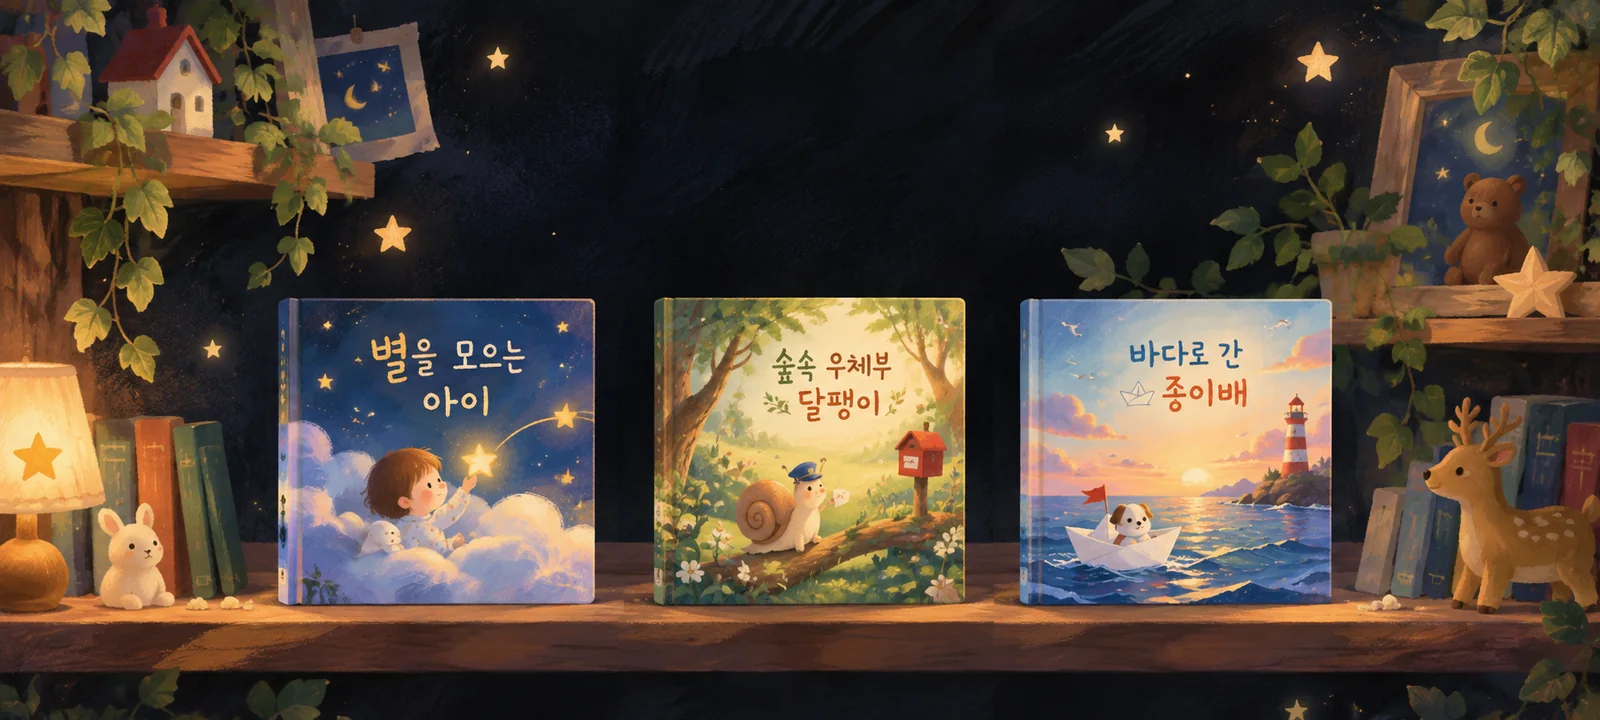
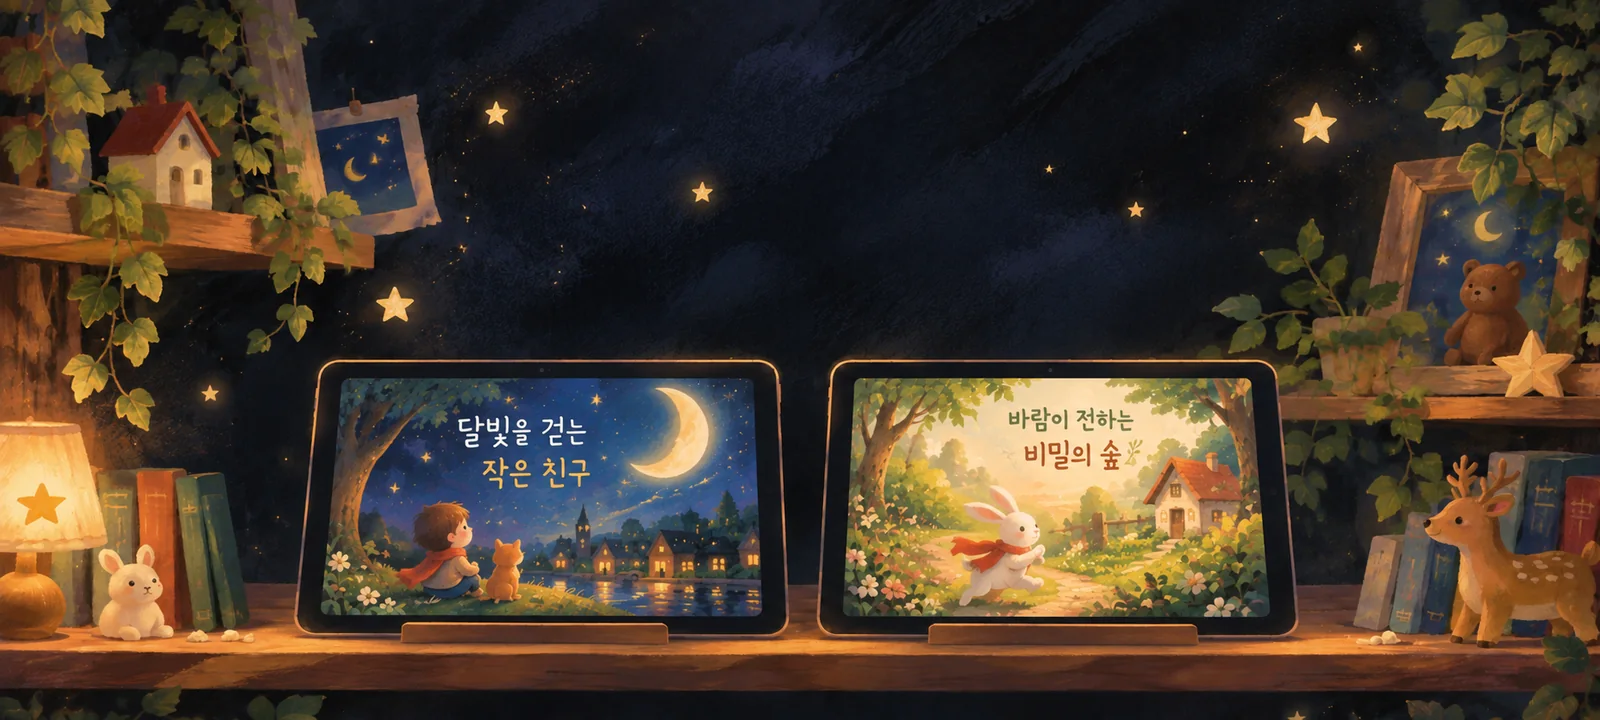
feat: 하단 CTA 배경 교체 + 첫 화면 버튼이 마지막 화면으로 이동
- Figma Rectangle 56(289:49)로 하단 CTA 배경 이미지 교체 (1465x626, object-cover, blur 5px), 텍스트는 유지
- 히어로 "FIRSTORY 미리 만나보기" 버튼이 맨 아래 CTA 섹션(#cta)으로 이동하도록 변경

diff --git a/src/components/FinalCta.css b/src/components/FinalCta.css
@@ -9,12 +9,12 @@
 /* 배경 이미지는 6px 블러 처리. 가장자리가 투명해지지 않도록 살짝 키워요 */
 .cta__bg {
   position: absolute;
-  top: 1.6px; /* Figma: 섹션 시작보다 2px 아래(4421) - 이미지 보정 0.4px */
+  top: 2px; /* Figma: 섹션 시작(4419)보다 2px 아래(4421) */
   left: -21px;
   width: max(1465px, 100% + 42px);
-  height: 665px; /* Figma: 626px의 106.19% */
-  object-fit: fill;
-  filter: blur(6.05px);
+  height: 626px;
+  object-fit: cover; /* Figma Rectangle 56: 1465x626, object-cover, blur 5px */
+  filter: blur(5px);
   pointer-events: none;
 }
 

diff --git a/src/components/Hero.jsx b/src/components/Hero.jsx
@@ -19,7 +19,7 @@ export default function Hero() {
           맞춤 동화로 시작하세요.
         </h1>
         <p className="hero__desc">어려웠던 이야기도 아이의 눈높이에서 자연스럽게 나눌 수 있어요.</p>
-        <Button href="#sample" width={255} arrow={arrowRight}>
+        <Button href="#cta" width={255} arrow={arrowRight}>
           FIRSTORY 미리 만나보기
         </Button>
       </div>
